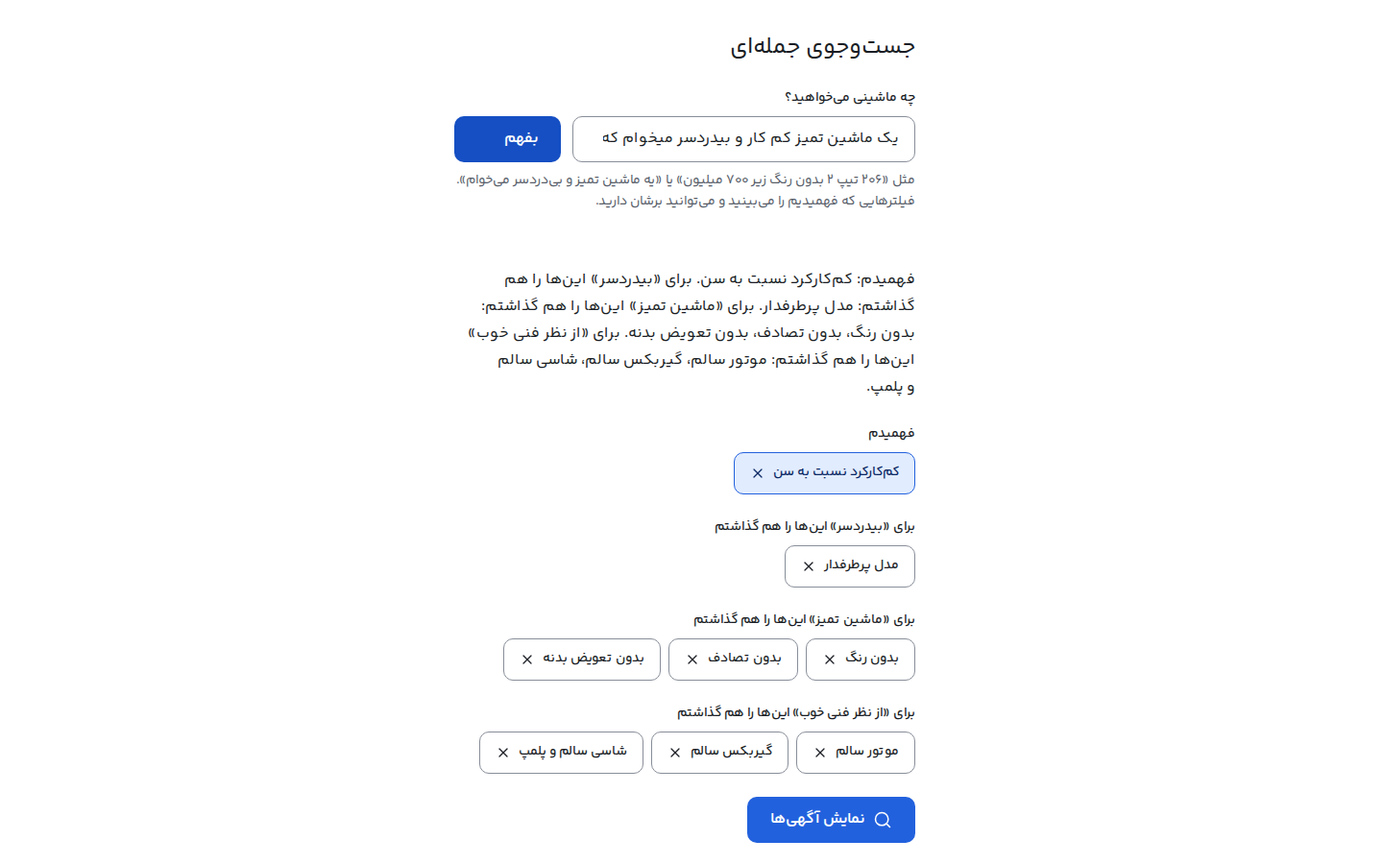
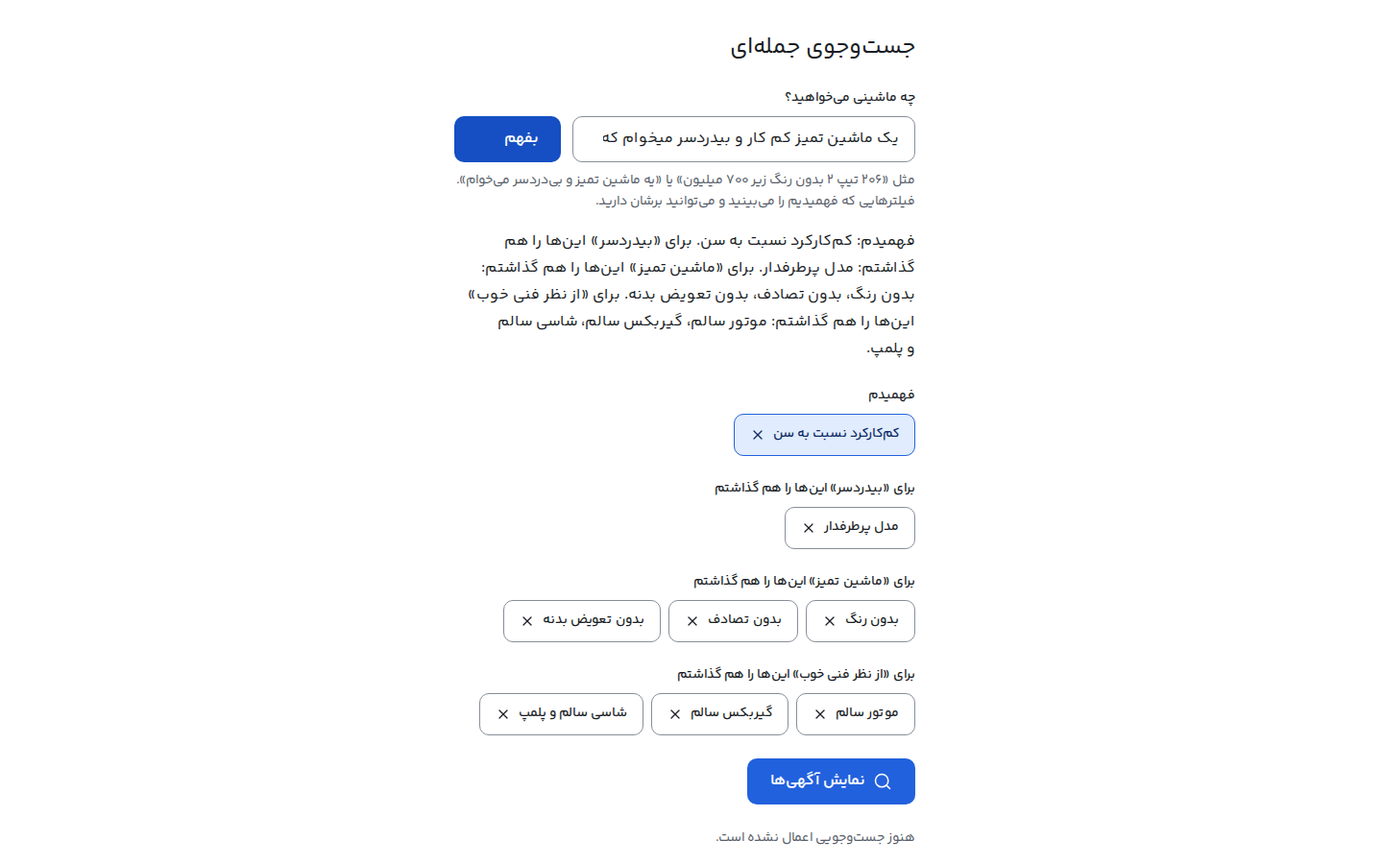
CS-65: compact box on the search page, stacked card on narrow widths, tests and ADR-0031

Changed region(s): [[0.3438, 0.28, 0.6875, 0.9956]]

diff --git a/apps/web/src/features/check-link/components/paste-link-form.tsx b/apps/web/src/features/check-link/components/paste-link-form.tsx
@@ -5,7 +5,6 @@ import type { Route } from 'next';
 import { useRouter } from 'next/navigation';
 import { useId, useRef, useState, useSyncExternalStore, useTransition } from 'react';
 import { actionClasses } from '@/components/ui/action-link';
-import { FieldMessage } from '@/components/ui/field';
 import { Icon } from '@/components/ui/icon';
 import { InfoPopover } from '@/components/ui/info-popover';
 import { Spinner } from '@/components/ui/spinner';
@@ -14,7 +13,7 @@ import { problemOf } from '@/features/check-link/link-problem';
 import { canonicalDivarAddress, MAX_PASTE_LENGTH, readPastedLink } from '@/features/check-link/link-parse';
 
 // The box that takes a listing's link (CS-65): on the home page's hero, under the search page's title and on /check. It is a
-// real GET form to /check (so it works before its script and without it), made quicker when the script is there: a paste
+// real GET form to /check (so a submit before the script has loaded still goes to the answer), made quicker once it has: a paste
 // that is a link is checked at once, a paste that is not one is answered at once, the clipboard button pastes in one tap
 // where the browser allows reading it, and the wait for the answer is a spinner in the button and a spoken status line.
 // The same reader as the server's (link-parse.ts) decides what the text is, so a wrong paste never makes a round trip;
@@ -32,7 +31,7 @@ type PasteLinkFormProps = {
   initial?: string;
   /** A line under the label that says why to paste; the answer page has its own. */
   lead?: string | undefined;
-  /** The button sits beside the box even on a phone, so the box takes one row (the search page, above its own box). */
+  /** The search page's form: no label above the box (the placeholder says what it takes and is its accessible name), the info control sits beside the box and the status line takes no room until it has something to say. */
   compact?: boolean;
 };
 
@@ -76,14 +75,16 @@ export function PasteLinkForm({ initial = '', lead, compact = false }: PasteLink
       }}
       className="flex flex-col gap-2"
     >
-      <div className="flex items-center gap-1">
-        <label htmlFor={id} className="text-label font-semibold text-default">
-          {COPY.label}
-        </label>
-        <InfoPopover label={COPY.info.label} closeLabel={COPY.info.close} content={COPY.info.content} />
-      </div>
+      {compact ? null : (
+        <div className="flex items-center gap-1">
+          <label htmlFor={id} className="text-label font-semibold text-default">
+            {COPY.label}
+          </label>
+          <InfoPopover label={COPY.info.label} closeLabel={COPY.info.close} content={COPY.info.content} />
+        </div>
+      )}
       {lead === undefined ? null : <p className="-mt-1 text-secondary text-pretty text-muted">{lead}</p>}
-      <div className="flex flex-wrap gap-2">
+      <div className="flex flex-wrap items-center gap-2">
         <div className="relative flex min-w-0 flex-1 basis-48 items-center">
           <span aria-hidden="true" className="pointer-events-none absolute inset-s-3 inline-flex text-muted">
             <Icon icon={Link2} />
@@ -91,6 +92,7 @@ export function PasteLinkForm({ initial = '', lead, compact = false }: PasteLink
           <input
             ref={input}
             id={id}
+            aria-label={compact ? COPY.label : undefined}
             name="link"
             type="text"
             // The address is read left to right and sits at the reading start of a right-to-left page.
@@ -104,7 +106,7 @@ export function PasteLinkForm({ initial = '', lead, compact = false }: PasteLink
             autoCorrect="off"
             autoCapitalize="none"
             spellCheck={false}
-            placeholder={COPY.placeholder}
+            placeholder={compact ? COPY.label : COPY.placeholder}
             aria-invalid={problem === null ? undefined : true}
             aria-describedby={`${id}-message`}
             onChange={(event) => {
@@ -118,7 +120,7 @@ export function PasteLinkForm({ initial = '', lead, compact = false }: PasteLink
               event.preventDefault();
               take(pasted.trim());
             }}
-            className="min-h-12 w-full min-w-0 rounded-control border border-control bg-canvas ps-12 pe-12 text-end text-control text-default placeholder:text-subtle aria-invalid:border-danger"
+            className={`min-h-12 w-full min-w-0 rounded-control border border-control bg-canvas ps-12 pe-12 text-end text-control text-default placeholder:text-subtle aria-invalid:border-danger ${compact ? 'lg:min-h-11' : ''}`}
           />
           {text !== '' ? (
             <button
@@ -156,23 +158,27 @@ export function PasteLinkForm({ initial = '', lead, compact = false }: PasteLink
             </button>
           ) : null}
         </div>
+        {compact ? (
+          <InfoPopover label={COPY.info.label} closeLabel={COPY.info.close} content={COPY.info.content} />
+        ) : null}
         <button
           type="submit"
           data-pending={pending ? '' : undefined}
           aria-disabled={pending}
-          className={`${actionClasses('primary')} group gap-2 ${compact ? '' : 'w-full sm:w-auto'}`}
+          className={`${actionClasses('primary')} group w-full gap-2 sm:w-auto ${compact ? 'lg:min-h-11' : ''}`}
         >
           {COPY.submit}
           <Spinner />
         </button>
       </div>
-      <FieldMessage
+      {/* The status line answers what was just done; in the compact form it takes no room until it has something to say. */}
+      <p
         id={`${id}-message`}
-        tone={problem === null && !denied ? 'neutral' : 'danger'}
         role="status"
+        className={`flex items-start gap-2 text-secondary text-pretty ${compact ? 'empty:hidden' : 'min-h-lh'} ${problem === null && !denied ? 'text-muted' : 'text-danger'}`}
       >
         {pending ? COPY.busy : (problem ?? (denied ? COPY.pasteDenied : null))}
-      </FieldMessage>
+      </p>
     </form>
   );
 }

diff --git a/e2e/tests/app/check-link.spec.ts b/e2e/tests/app/check-link.spec.ts
@@ -1,13 +1,6 @@
 import type { Page } from '@playwright/test';
 import { removeListingPages, seedListingPages, type ListingPageSeed } from '../../fixtures/listing-page';
-import {
-  fetchesSince,
-  pasteDemand,
-  removePasteListings,
-  seedPasteListings,
-  wantedCount,
-  type PasteSeed,
-} from '../../fixtures/paste-link';
+import { fetchesSince, pasteDemand, pasteSeed, wantedCount, type PasteSeed } from '../../fixtures/paste-link';
 import { expect, test as base } from '../../fixtures/test';
 import { inspectLayout, waitForHydration } from '../../gorilla/layout';
 
@@ -43,10 +36,9 @@ const test = base.extend<{ listings: ListingPageSeed; paste: PasteSeed }>({
     await use(seed);
     await removeListingPages(seed);
   },
+  // Seeded once for the run (fixtures/global-setup.ts): the tests of both projects run side by side and share the model's demand.
   paste: async ({}, use) => {
-    const seed = await seedPasteListings();
-    await use(seed);
-    await removePasteListings(seed);
+    await use(pasteSeed());
   },
 });
 
@@ -147,7 +139,8 @@ test.describe('the answer page', () => {
     // A market value from the fitted model: the line under the price names it.
     await expect(answer.getByText(/ارزش بازار:/).first()).toBeVisible();
     await expect(answer.getByRole('region', { name: COPY.analysis })).toBeVisible();
-    expect(await pasteDemand(paste.modelId)).toBe(before + 1);
+    // The other project's run counts the same model at the same time: at least this paste, never fewer.
+    expect(await pasteDemand(paste.modelId)).toBeGreaterThanOrEqual(before + 1);
   });
 
   test('a listing seen only on a list page says so, counts the request for its model and offers rated listings of it', async ({
@@ -159,7 +152,8 @@ test.describe('the answer page', () => {
     await expect(page.getByRole('heading', { name: COPY.unread })).toBeVisible();
     await expect(page.getByText('درخواست شما شمرده شد')).toBeVisible();
     await expect(page.locator('[data-price]')).toHaveCount(0);
-    expect(await pasteDemand(paste.modelId)).toBe(before + 1);
+    // The other project's run counts the same model at the same time: at least this paste, never fewer.
+    expect(await pasteDemand(paste.modelId)).toBeGreaterThanOrEqual(before + 1);
     await expect(page.getByRole('link', { name: /دیدن همهی آگهیهای/ }).first()).toHaveAttribute(
       'href',
       /\/search\?.*model/,
@@ -173,11 +167,13 @@ test.describe('the answer page', () => {
   }) => {
     const divar = watchDivar(page);
     const started = new Date();
-    await openCheck(page, `/check?link=${encodeURIComponent(linkOf(paste.keys.never))}`);
+    // A token of its own, so the count is this test's alone (the other project runs the same test).
+    const never = `e2e-pl-${paste.token}-n${String(Date.now() % 1_000_000)}`;
+    await openCheck(page, `/check?link=${encodeURIComponent(linkOf(never))}`);
     await expect(page.getByRole('heading', { name: COPY.notFound })).toBeVisible();
     await expect(page.getByText('لینکش را ثبت کردیم')).toBeVisible();
     await expect(page.getByText(COPY.bestDeals)).toBeVisible();
-    expect(await wantedCount(paste.keys.never)).toBe(1);
+    expect(await wantedCount(never)).toBe(1);
     await a11y.check();
     expect(divar).toEqual([]);
     expect(await fetchesSince(started)).toBe(0);
@@ -250,21 +246,6 @@ test.describe('the box', () => {
     await page.getByRole('button', { name: COPY.clear }).click();
     await expect(box(page)).toHaveValue('');
     await expect(box(page)).toBeFocused();
-  });
-
-  test('without a script, the form still asks the answer page for the link', async ({
-    browser,
-    baseURL,
-    listings,
-  }) => {
-    const context = await browser.newContext({ javaScriptEnabled: false, baseURL });
-    const page = await context.newPage();
-    await page.goto('/check');
-    await box(page).fill(linkOf(`e2e-lp-${listings.token}-rated`));
-    await page.getByRole('button', { name: COPY.submit }).click();
-    await expect(page.locator('[data-check-answer]')).toBeVisible();
-    await expect(page.locator('[data-price]')).toHaveText(/۶۴۰٬۰۰۰٬۰۰۰\s+تومان/);
-    await context.close();
   });
 
   test('a link reads back the same from Back', async ({ page, listings }) => {

diff --git a/apps/web/src/features/check-link/components/check-answer.tsx b/apps/web/src/features/check-link/components/check-answer.tsx
@@ -74,15 +74,17 @@ function FoundCard({ page }: { page: ListingPageData }) {
       aria-labelledby="check-answer-title"
       data-check-answer
       data-rated={gauge?.banded === true ? '' : undefined}
-      className="grid gap-4 lg:grid-cols-[22rem_minmax(0,1fr)] lg:items-start lg:gap-8"
+      className="grid gap-4 lg:grid-cols-[21rem_minmax(0,1fr)] lg:items-start lg:gap-8"
     >
-      <div className="flex flex-col gap-4 rounded-card border border-divider bg-surface p-4 lg:sticky lg:top-4">
-        <div className="grid grid-cols-[7rem_minmax(0,1fr)] gap-3 lg:grid-cols-1">
+      <div className="@container flex flex-col gap-4 rounded-card border border-divider bg-surface p-4 lg:sticky lg:top-4">
+        {/* Photo beside the name when the card is 20 rem wide inside (a phone at the normal text size); above it when it is
+            narrower: the desktop column (21 rem, 19 rem inside) and any phone whose text is enlarged. */}
+        <div className="grid grid-cols-1 gap-3 @xs:grid-cols-[7rem_minmax(0,1fr)]">
           <div className="relative aspect-4/3 overflow-hidden rounded-inner bg-surface-muted outline-1 -outline-offset-1 outline-photo">
             <ListingPhoto
               src={photo?.thumbnailUrl ?? photo?.url ?? null}
               eager
-              sizes="(min-width: 64rem) 22rem, 7rem"
+              sizes="(min-width: 64rem) 21rem, 7rem"
             />
           </div>
           <div className="flex min-w-0 flex-col gap-1">

diff --git a/apps/web/src/app/(site)/search/page.tsx b/apps/web/src/app/(site)/search/page.tsx
@@ -19,12 +19,15 @@ export const metadata: Metadata = {
 export default function SearchPage({ searchParams }: PageProps<'/search'>) {
   return (
     <main className="mx-auto flex w-full max-w-7xl flex-1 flex-col gap-4 px-4 pt-6 pb-16">
-      {/* tabIndex: where focus waits while the results are read again after a failure (results-error.tsx) */}
-      <h1 tabIndex={-1} className="text-title font-bold">
-        {SEARCH_COPY.title}
-      </h1>
-      <div className="rounded-card border border-divider bg-surface-muted p-4 lg:max-w-2xl">
-        <PasteLinkForm compact />
+      {/* The title and the box that takes a link (CS-65) share a row from 64 rem, so the first card stays high on the screen. */}
+      <div className="flex flex-col gap-4 lg:flex-row lg:items-center lg:justify-between lg:gap-8">
+        {/* tabIndex: where focus waits while the results are read again after a failure (results-error.tsx) */}
+        <h1 tabIndex={-1} className="text-title font-bold">
+          {SEARCH_COPY.title}
+        </h1>
+        <div className="lg:w-full lg:max-w-xl">
+          <PasteLinkForm compact />
+        </div>
       </div>
       <ResultsErrorBoundary>
         <Suspense fallback={<SearchScreenSkeleton />}>

diff --git a/e2e/fixtures/global-setup.ts b/e2e/fixtures/global-setup.ts
@@ -1,4 +1,5 @@
 import { removeListingPages, seedListingPages } from './listing-page';
+import { removePasteListings, seedPasteListings } from './paste-link';
 
 // Runs once before the whole run (playwright.config.ts): the listing page needs a listing to open for the stress matrix
 // and the gorilla, which list their pages before any test starts (fixtures/app-pages.ts). The listing's id is handed to
@@ -9,7 +10,11 @@ export default async function globalSetup(): Promise<(() => Promise<void>) | und
   const seed = await seedListingPages();
   process.env.E2E_LISTING_ID = String(seed.ids.rated);
   process.env.E2E_LISTING_TOKEN = seed.token;
+  // The pasted-link tests' listings, and the model's demand as it was, put back when the run ends (fixtures/paste-link.ts).
+  const paste = await seedPasteListings();
+  process.env.E2E_PASTE_SEED = JSON.stringify(paste);
   return async () => {
+    await removePasteListings(paste);
     await removeListingPages(seed);
   };
 }

diff --git a/apps/web/src/features/check-link/components/check-skeleton.tsx b/apps/web/src/features/check-link/components/check-skeleton.tsx
@@ -6,10 +6,10 @@ import { CHECK_COPY } from '@/features/check-link/check-copy';
 
 export function CheckAnswerSkeleton() {
   return (
-    <div role="status" className="grid gap-4 lg:grid-cols-[22rem_minmax(0,1fr)] lg:items-start lg:gap-8">
+    <div role="status" className="grid gap-4 lg:grid-cols-[21rem_minmax(0,1fr)] lg:items-start lg:gap-8">
       <span className="sr-only">{CHECK_COPY.page.loading}</span>
-      <div className="flex flex-col gap-4 rounded-card border border-divider bg-surface p-4">
-        <div className="grid grid-cols-[7rem_minmax(0,1fr)] gap-3 lg:grid-cols-1">
+      <div className="@container flex flex-col gap-4 rounded-card border border-divider bg-surface p-4">
+        <div className="grid grid-cols-1 gap-3 @xs:grid-cols-[7rem_minmax(0,1fr)]">
           <div className="aspect-4/3 overflow-hidden rounded-inner">
             <SkeletonBlock />
           </div>

diff --git a/apps/web/src/app/(site)/check/page.tsx b/apps/web/src/app/(site)/check/page.tsx
@@ -21,7 +21,7 @@ export default function CheckPage({ searchParams }: PageProps<'/check'>) {
     <main className="mx-auto flex w-full max-w-5xl flex-1 flex-col gap-6 px-4 pt-6 pb-16">
       <header className="flex max-w-reading flex-col gap-2">
         {/* tabIndex: where focus waits while the answer is read again after a failure */}
-        <h1 tabIndex={-1} className="text-title font-bold text-balance lg:text-display">
+        <h1 tabIndex={-1} className="text-title font-bold text-balance">
           {CHECK_COPY.page.h1}
         </h1>
         <p className="text-body text-pretty text-muted">{CHECK_COPY.page.lead}</p>

diff --git a/e2e/fixtures/paste-link.ts b/e2e/fixtures/paste-link.ts
@@ -99,6 +99,14 @@ export async function seedPasteListings(): Promise<PasteSeed> {
   });
 }
 
+/** The seed the global setup made, handed over through the environment like the listing page's. */
+export function pasteSeed(): PasteSeed {
+  const text = process.env.E2E_PASTE_SEED;
+  if (text === undefined)
+    throw new Error('E2E_PASTE_SEED is not set: the global setup seeds the pasted-link listings.');
+  return JSON.parse(text) as PasteSeed;
+}
+
 export async function removePasteListings(seed: PasteSeed): Promise<void> {
   await withClient(async (client) => {
     await client.query('BEGIN');

diff --git a/docs/design/data-model.md b/docs/design/data-model.md
@@ -744,7 +744,7 @@ Each layer below is created by the task named in its table, through a migration 
 |---|---|---|---|
 | `removal_request` | CS-60 (its criterion #3 needs it) | A source's request to remove one listing or everything (ADR-0008 point 8), kept as the record after the purge | `source_id` FK; `scope` (`source`, `listing`); `source_listing_key` (required for `listing`); `received_at`, `requested_by`; `status` (`received` → `completed` or `rejected`); `listings_deleted`. A function `purge_listings(request_id)` locks the request, sets `carshenas.purge` for its transaction only, deletes the listings (everything cascades), and completes the request |
 
-### Layer 1 additions: pasted links as a cause of fetches
+### Layer 1 additions: pasted links as a cause of fetches (not built: ADR-0031, a pasted link is never fetched)
 
 CS-65 adds `fetch_log.paste_request_id` (FK to `paste_request`, layer 8), drops `NOT NULL` on `crawl_run_id`, and adds `fetch_log_has_one_cause CHECK (num_nonnulls(crawl_run_id, paste_request_id) = 1)`.
 
@@ -759,7 +759,7 @@ ADR-0017 (2026-09-28) keeps the index live within a daily request budget per sou
 | `source.daily_request_budget` | CS-35 (built: section 3) | The budget of ADR-0017 point 5 | A positive integer, at most half of the requests the source's interval allows in a day (a CHECK across it and `min_request_interval_ms`) |
 | `tracked_model` | CS-53; a configured list in CS-33 until then (`apps/worker/src/sources/divar/tracked-models.ts`) | What is read in depth | FK to the catalogue's model, and optionally a trim (CS-50); `priority`; `state` (`tracked`, `paused`); `tracked_at`. Curated in the superadmin section (CS-40), which records who changed what and when |
 | `model_volume` | CS-33 (created, section 3), CS-35 | Active listings per source and model, per sweep, untracked models included | Exists since CS-33, which fills it from its measurement; CS-35's daily sweep writes it too |
-| `model_demand` | CS-59, CS-65 | How often buyers searched for or pasted a model, shown to the superadmin (CS-53) | Daily counts per model and kind (`search`, `paste`); no personal data |
+| `model_demand` | CS-59, CS-65 | How often buyers searched for or pasted a model, shown to the superadmin (CS-53) | Daily counts per model and kind (`search`, `paste`); no personal data. **Built by CS-65** (migration `20261002232559_create_paste_link_demand`): one row per Tehran day, model and kind, `request_count`; the web role cannot write it, only `record_paste_request()` does (a pasted link that resolves to a catalogue model counts one); CS-53 reads it. The `search` kind is written by the search log's counting, not yet built |
 | `dataset_release` | CS-49 | A named, dated cut of the index | `name` (unique), `cut_at`, counts per source and model, the parser, prompt and valuation versions; the dump itself is stored outside the repository |
 
 ### Layer 2: recorded model responses and review (CS-52, CS-48)
@@ -855,7 +855,7 @@ Buyers' accounts exist since CS-39 (section 3). The tables below were planned be
 | `telegram_chat` | CS-76 | A chat linked through the bot | `chat_id bigint UNIQUE` (Telegram ids have at most 52 significant bits, so they fit a JavaScript number); `linked_at`; `blocked_at` |
 | `saved_search` | CS-76 | A stored query alerts run against | `telegram_chat_id` FK CASCADE; `status` (`pending_link` → `active` → `stopped`, from Telegram or the site: CS-76 #3); `link_token_sha256`, `manage_token_sha256`; `filters jsonb` in the filter UI's schema (`StoredSearch` of `@carshenas/search`, ADR-0027: `{ v: 1, … }`, catalogues expanded), plus indexable columns (`make_id`, `model_id`, `trim_id`, `city_id`, `max_price_toman`, `min_model_year_sh`, `max_mileage_km`, `min_deal_rating`); `notify_new_deals`, `notify_price_drops`; `matched_through` (the matcher's watermark) |
 | `alert` | CS-76 | Replaced for the inbox by `notification` (CS-68, section 3); CS-76 records a chat's delivery of each notification beside it. The plan as first written: one message owed to one saved search | `kind` (`new_deal`, `price_drop`); `vehicle_id`; `listing_id`; `price_event_id`; partial unique indexes `alert_once_per_new_vehicle (saved_search_id, vehicle_id)` and `alert_once_per_price_drop (saved_search_id, price_event_id)`, which the matcher's `ON CONFLICT DO NOTHING` relies on (CS-76 #2: "never duplicates"); `status` `pending` → `sending` (committed before the Telegram call) → `sent` or `failed`, or `pending` → `suppressed`: at most once, and a crash leaves a visible `sending` row for a person, never a second message |
-| `paste_request` | CS-65 | A pasted link and its answer | `pasted_url`; `source_id`; `requested_at`; `outcome` (`rated_from_database`, `fetched_and_rated`, `unsupported_source`, `broken_link`, `source_blocked`, `error`); `listing_id`; `answered_at` (latency for CS-65 #4). A Divar listing read through Kenar is stored like any external listing of the `requester_only` source `divar` |
+| `paste_request` | CS-65 | **Not built; replaced by ADR-0031.** The plan was a row per pasted link with its outcome. What was built: `wanted_link` (`source_id`, `source_listing_key` (a safe token, CHECK), `request_count`, `first_wanted_at`, `last_wanted_at`; unique per source and token; at most 5,000 rows, kept by `record_paste_request()` under an advisory lock) for a link whose listing we have not seen, which the crawler may read when its source runs again; the outcome and latency of each paste are the log line `pasted link answered`. A pasted link is answered from our own data only (no fetch, so `fetch_log` is unchanged and the `paste_request_id` cause below is not added) | Divar is a public, crawled source (ADR-0008 point 3) |
 
 ## 5. Native listings later
 

diff --git a/docs/decisions/0031-pasted-links-answered-from-our-own-data.md b/docs/decisions/0031-pasted-links-answered-from-our-own-data.md
@@ -1,0 +1,31 @@
+# ADR-0031: Answer a pasted link from our own data, by code, and keep the links we have not seen as wanted
+
+- Status: accepted by delegation (the owner's standing instruction of 2026-09-30 and the pause of the crawl on 2026-10-01, decided by the CS-65 lane on 2026-10-03)
+- Date: 2026-10-03
+- Deciders: Pedrum (delegated)
+- Related: CS-65, CS-53, CS-64, ADR-0008, ADR-0017 points 6 and 8, ADR-0030, `docs/design/data-model.md` (layer 7 `model_demand`, layer 8 `paste_request`)
+
+## Context
+
+CS-65 is the demo's wow moment: a buyer pastes the link of the listing they are looking at and sees its rating. The task planned that a link whose listing we do not have is read once from Divar on the spot (ADR-0017 point 8). The owner paused the Divar crawl on 2026-10-01 and the standing rule is that nothing is requested from Divar or any listing site until they resume it. A pasted link is also public input: anyone can send any text, in a loop.
+
+## Decision
+
+1. **The link is read by code.** `readPastedLink` (`apps/web/src/features/check-link/link-parse.ts`) takes the first address in the text, accepts the short `/v/<token>` form and the long `/v/<slug>/<token>` form of Divar (any of its hosts, with or without a scheme), and returns the token, which is what `listing.source_listing_key` holds. Other sites, text with no address, and Divar addresses that are not one listing's each get their own plain Farsi message; only Divar is supported. It runs in the browser (a wrong paste is answered at once) and again on the server. No model is involved.
+2. **The answer comes from our database only.** A token is looked up in `listing`; the answer is the listing page's own data (`readListingPage`, CS-64), so the link's answer and the page never disagree. A listing the daily valuation run did not rate is rated on the spot by the database function `paste_rate_listing(id)`, a SECURITY DEFINER wrapper of `valuation_rate_listing` on the latest succeeded run (the web role cannot read the comparables and coefficients the function reads); it writes nothing. The listing page uses the same function, so a listing crawled after the run has an analysis too.
+3. **A link we have not seen is never fetched.** `record_paste_request(source, token)` keeps it in `wanted_link` (source, token, how many times it was asked, first and last time), at most 5,000 distinct ones, so a loop cannot fill the table; the token must be a safe token (a CHECK), and only the token is stored, never the pasted text. The crawler may read the table once the source runs again; the buyer is told the link was kept, and told honestly when it was not (full table). A listing we know but whose details were never read (a model not read in depth) says so.
+4. **Demand is counted.** The same function counts every pasted link that resolves to a catalogue model in `model_demand` (Tehran day, model, kind `paste`; kind `search` is CS-53's), the table the superadmin's list of models buyers ask for reads. The web role can write neither table, only call the two functions.
+5. **The page keeps no state but the address.** `/check?link=<canonical Divar address>` can be shared and gone Back to; the home page's hero and the search page carry the same box.
+
+## Alternatives considered
+
+- **Fetch a link we do not have, once, politely (the task's original plan).** Breaks the owner's pause and would make every pasted link a request to Divar; left to the crawler through `wanted_link` once the owner resumes it.
+- **A model to understand the pasted text.** Not needed: the token is in the address; a model could only add cost and error.
+- **The full `paste_request` table of the data model (every paste with its outcome and latency).** More than the product needs now; the log line `pasted link answered` carries the outcome and the milliseconds, and `wanted_link` and `model_demand` carry the two things a person acts on. Superseded in the data model by this record.
+- **Insert from the web role directly.** A public loop could fill the tables; the caps live in the function, in the database.
+
+## Consequences
+
+- Positive: instant (a few database reads, no network), free, no request to any listing site, every number from the database, shareable.
+- Negative: a link whose listing we have not read gets no rating until the crawl reads it; the answer for those is a clear no, with similar rated listings.
+- Follow-ups: the crawler reads `wanted_link` first when a source resumes (needs the owner's resume); CS-53 reads `model_demand`; CS-70 and CS-71 may offer «بسپارش به کارشناس» on the not-found answer.

diff --git a/docs/learnings.md b/docs/learnings.md
@@ -117,3 +117,4 @@ Append-only. One dated line per non-obvious lesson from a finished task that is 
 - 2026-10-02 (CS-85): a parser written from a survey of sound cars read none of the wordings that mark a flaw: «رنگشدگی در N ناحیه» came without the comma it expected, so 1,005 of 6,088 listings had no body condition, and 385 posts score the chassis per side in rows it did not know, so 835 had no chassis condition, the sided posts and 359 stated «تعییننشده» among them; an unread condition is valued as sound, so rating accuracy depends on a survey of the flawed wordings, not the sound ones. Counting every distinct score text over the stored snapshots (a `jsonb_path_query` over `SCORE_ROW` widgets) took one query and showed all of it.
 - 2026-10-02 (CS-62): code first, model for the rest, was worth it on a labelled set of 163 Farsi queries: code alone read 94.5 % fully right, with the model for what code cannot settle 96.9 %, and the model reading every word 75.5 % at nine times the cost; 87 % of queries need no model at all. Every word code could place was removed from the model's question, which also removed its chances to invent. Three traps: a number-only phrase («۴۰۵ کیلومتر پایین») is a mileage to a quantity reader and a model to a person, so a bare number beside a model alias needs a rule the labels state; an alias table that lists «تیبا ۲» fixes a typed-model miss better than any prompt line; and a gate that must only meter paid requests (a visitor limit, a spending cap) belongs in the layer's `beforeRequest`, after the cache lookup, or every repeated sentence counts as spending.
 - 2026-10-02 (CS-61): dimming stale results while a search loads fails the contrast scan; a thin line over them says the same thing and keeps them readable. A control that removes itself (a chip, a suggestion) drops focus to the page top unless the navigation puts it on the new count. Catalogue names keep the digits their source wrote («پژو 206»), so a page must show them through one function that makes them Persian. Editing an applied migration in a lane needs the DB redone as the owner role (`carshenas_owner`), or the e2e seed has no rights.
+- 2026-10-03 (CS-65): with Cache Components a Suspense boundary's content arrives in a hidden element that a script reveals, so an answer page behind a plain GET form shows nothing with scripts off (the test for it failed with «hidden»); do not promise a no-script path. The layout inspector counts a visually hidden `<label>` as clipped text: name a box with `aria-label` instead. Parallel Playwright projects share one model's demand row, so a test of a counter asserts «at least», and the exact count belongs to the database test.

diff --git a/backlog/tasks/cs-65 - Paste-a-listing-link-for-an-instant-deal-rating.md b/backlog/tasks/cs-65 - Paste-a-listing-link-for-an-instant-deal-rating.md
@@ -5,7 +5,7 @@ status: In Progress
 assignee:
   - '@claude'
 created_date: '2026-09-28 22:12'
-updated_date: '2026-10-02 23:24'
+updated_date: '2026-10-03 00:45'
 labels:
   - frontend
   - backend
@@ -15,8 +15,7 @@ dependencies:
   - CS-64
   - CS-53
 references:
-  - docs/decisions/0008-crawl-only-what-sources-allow.md
-  - docs/decisions/0017-live-bounded-replayable-listing-index.md
+  - docs/decisions/0031-pasted-links-answered-from-our-own-data.md
 priority: high
 ordinal: 34000
 ---
@@ -42,6 +41,12 @@ The demo's wow moment: a buyer pastes the link of a listing they are looking at 
 - [ ] #2 Docs or ADRs updated when behavior or decisions changed
 - [ ] #3 No secrets or credentials committed
 <!-- DOD:END -->
+
+## Implementation Plan
+
+<!-- SECTION:PLAN:BEGIN -->
+Lane cs-65-paste-link (2026-10-03, owner away; coordinator reviews). Decisions in ADR-0031. 1) Migration create_paste_link_demand: wanted_link, model_demand, SECURITY DEFINER paste_rate_listing(id) (the wrapper CS-64 asked for) and record_paste_request(source, token) with caps; web role can only call them. 2) Parser readPastedLink (features/check-link): token from short and long Divar links, other site, not a link, Divar non-listing; runs in browser and server. 3) Loader: answerPastedToken reuses readListingPage; readListingPage now rates a listing with no stored valuation through the wrapper. 4) UI: PasteLinkForm (hero, search, /check), /check?link= answer page with rated card, unread, not found, off market, problems, skeleton, error. 5) Tests: unit (parser), schema constraints, db test against the scratch database, Playwright phone and desktop, stress matrix entries. No request to Divar from this lane or from the feature; no model call, no Metis credit.
+<!-- SECTION:PLAN:END -->
 
 ## Implementation Notes
 
